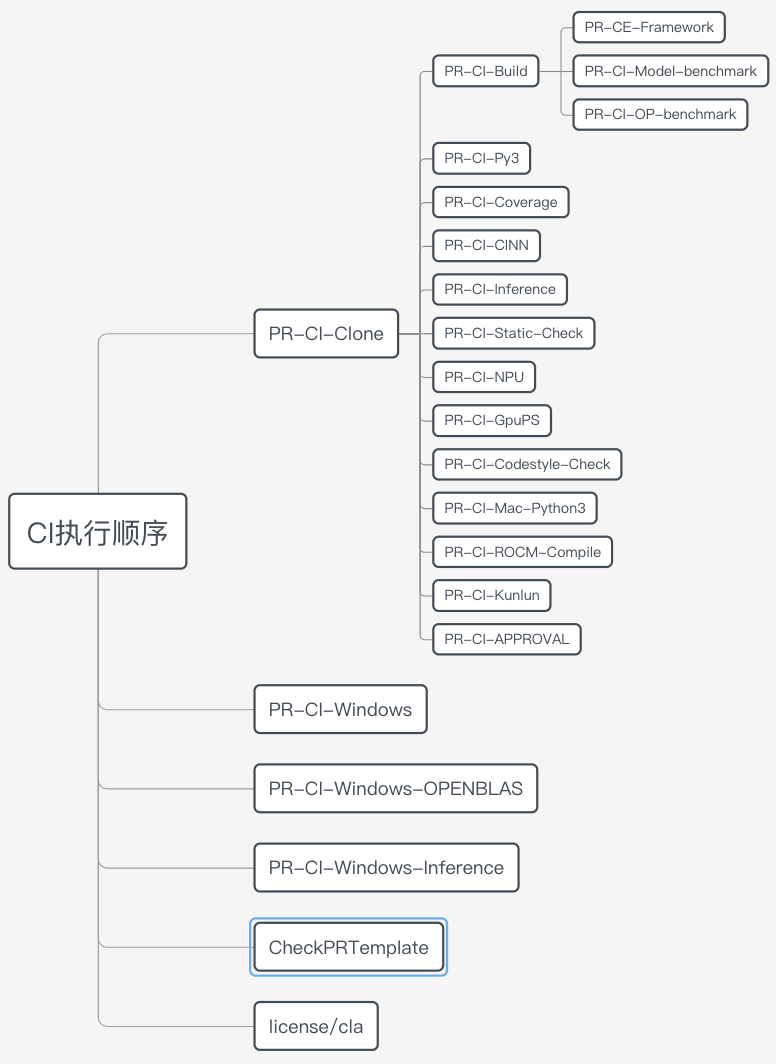
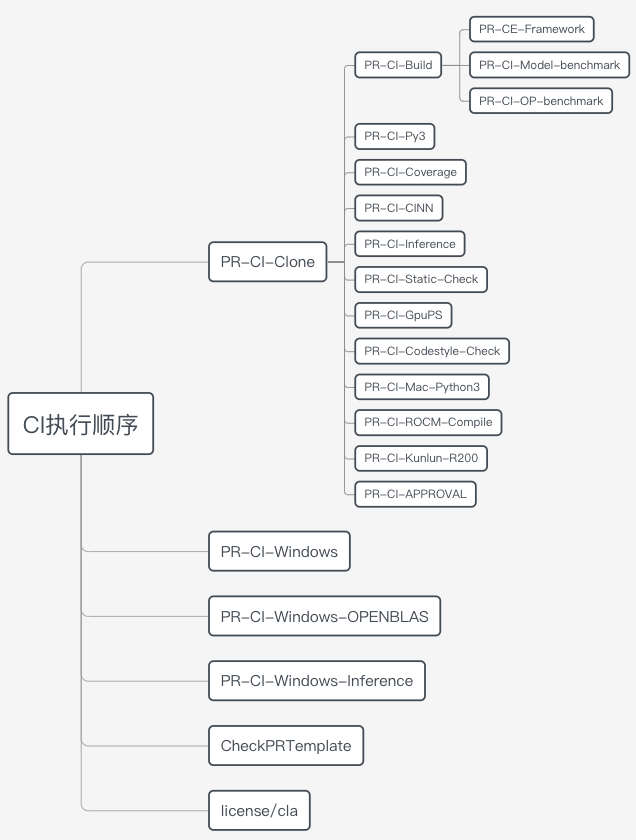
Update ci doc

Changed region(s): [[0.0, 0.0, 1.0, 0.9905]]

diff --git a/docs/dev_guides/git_guides/paddle_ci_manual_cn.md b/docs/dev_guides/git_guides/paddle_ci_manual_cn.md
@@ -6,7 +6,7 @@
 
 - 是否签署 CLA 协议。
 - PR 描述是否符合规范。
-- 是否通过不同平台`（Linux/Mac/Windows/XPU/NPU/DCU 等）`的编译与单测（单元测试）。
+- 是否通过不同平台`（Linux/Mac/Windows/XPU/DCU 等）`的编译与单测（单元测试）。
 - 是否通过静态代码扫描工具的检测。
 
 CI 测试包含的具体测试任务和执行顺序如下图所示：
